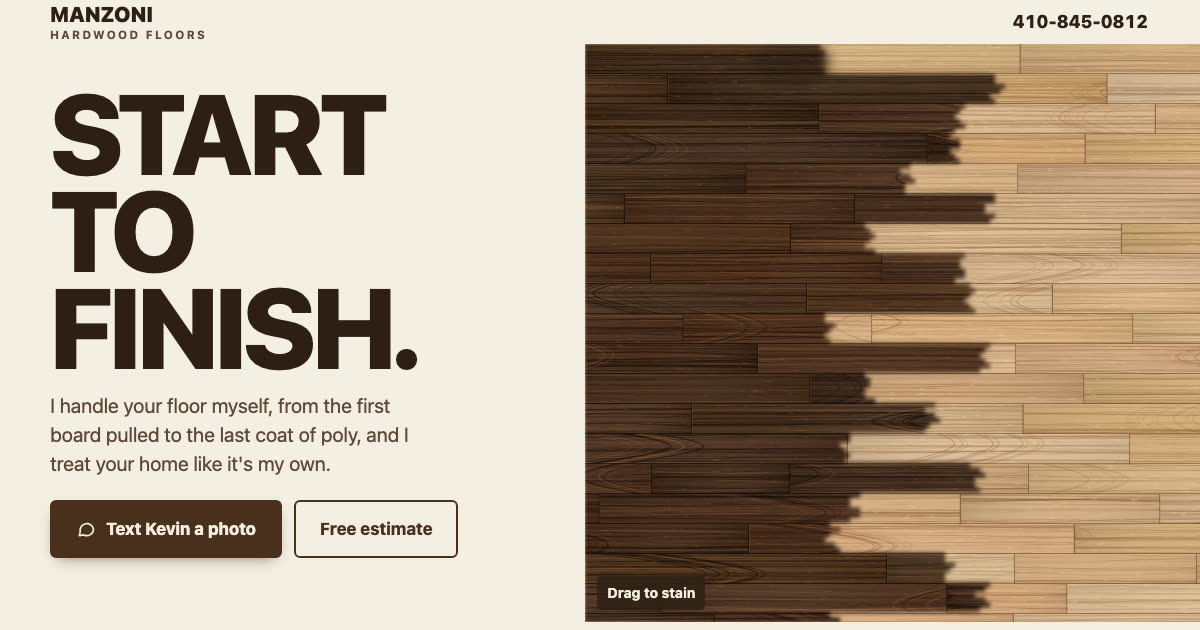
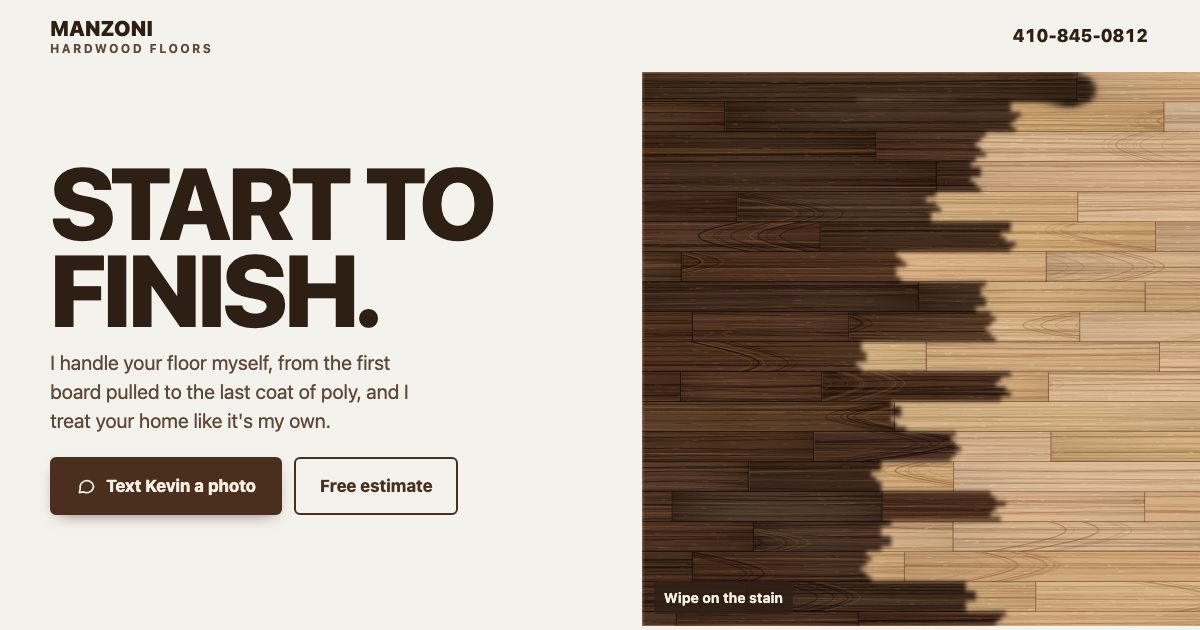
Apply Impeccable sweep and finish review: header padding, photos inset in a board field, neutral trim ground, truthful text bodies, Kevin's voice
Claude-Session: https://claude.ai/code/session_01K48ZZnDRbZzR2nYUENonyB

diff --git a/index.html b/index.html
@@ -5,7 +5,7 @@
 <meta name="viewport" content="width=device-width, initial-scale=1, viewport-fit=cover">
 <title>Manzoni Hardwood Floors · Northern NJ</title>
 <meta name="description" content="Hardwood floor installation, sand and refinish, and repairs in Northern New Jersey. Fully insured. Free estimates. Call or text Kevin at 410-845-0812.">
-<meta name="theme-color" content="#f4eee4">
+<meta name="theme-color" content="#f4f2ec">
 <meta property="og:type" content="website">
 <meta property="og:title" content="Manzoni Hardwood Floors">
 <meta property="og:description" content="Installation, sand & refinish, repairs. Northern NJ. Fully insured, free estimates. Call or text Kevin.">
@@ -18,8 +18,8 @@
 <style>
 /* ---------- Tokens ---------- */
 :root{
-  --ground:#f4eee4;      /* trim-white wall, warm */
-  --ground-2:#ebe2d4;    /* sanded oak dust */
+  --ground:#f4f2ec;      /* trim-white wall */
+  --ground-2:#e9e5dc;    /* sanded oak dust */
   --ink:#2e1f15;         /* walnut ink */
   --ink-soft:#5f4838;
   --walnut:#4a2f1e;      /* Special Walnut */
@@ -60,7 +60,7 @@ p{margin:0}
 .top{display:flex;align-items:center;justify-content:space-between;gap:12px;padding-top:max(14px,env(safe-area-inset-top));padding-bottom:14px}
 .mark{display:flex;flex-direction:column;justify-content:center;min-height:44px;text-decoration:none;line-height:1}
 .mark b{font-weight:900;font-size:21px;letter-spacing:.01em;text-transform:uppercase}
-.mark span{font-size:11.5px;font-weight:700;letter-spacing:.2em;text-transform:uppercase;color:var(--ink-soft);margin-top:4px}
+.mark span{font-size:12px;font-weight:700;letter-spacing:.2em;text-transform:uppercase;color:var(--ink-soft);margin-top:4px}
 .tel{display:flex;align-items:center;min-height:44px;padding:0 2px;font-weight:800;font-size:16px;text-decoration:none;white-space:nowrap;font-variant-numeric:tabular-nums}
 .tel:hover{color:var(--tape)}
 
@@ -90,7 +90,6 @@ section{padding:64px 0}
 /* services: rows, only the arrow reacts */
 .rows{list-style:none;margin:26px 0 0;padding:0;border-top:1px solid var(--seam)}
 .rows li{position:relative;border-bottom:1px solid var(--seam)}
-.rows li::after{content:"";position:absolute;bottom:-1px;width:1px;height:12px;background:var(--seam);left:var(--joint,40%)}
 .row{display:flex;align-items:center;justify-content:space-between;gap:16px;min-height:76px;padding:10px 0;text-decoration:none;-webkit-tap-highlight-color:transparent}
 .row strong{font-size:clamp(24px,6.6vw,34px);font-weight:820;text-transform:uppercase;letter-spacing:-.015em;line-height:1}
 .arrow{flex:none;display:grid;place-items:center;width:46px;height:46px;border-radius:50%;background:var(--ground-2);color:var(--walnut);transition:background-color .18s,color .18s}
@@ -106,9 +105,11 @@ section{padding:64px 0}
 .care p.spec{font-size:17px;font-weight:750;color:var(--oak);margin-top:26px}
 
 /* work: photos set into the floor like an inlay */
-.inlays{display:grid;gap:18px;margin-top:28px}
-.inlay{margin:0;padding:10px;border-radius:4px;background:var(--walnut) var(--strip,none) center/cover;box-shadow:0 18px 30px -18px rgba(46,31,21,.55),inset 0 0 0 1px rgba(20,10,5,.35)}
-.inlay img{width:100%;border-radius:2px;background:#5a3b27;user-select:none;-webkit-user-drag:none}
+.field-wrap{position:relative;margin:28px -20px 0;padding:22px 20px;background:#3f2819;overflow:hidden}
+.field-wrap canvas{position:absolute;inset:0;width:100%;height:100%;display:block;touch-action:pan-y}
+.inlays{position:relative;display:grid;gap:22px}
+.inlay{margin:0;padding:6px;background:#d3b081;box-shadow:inset 0 1px 3px rgba(40,22,10,.6),0 0 0 2px #24150c}
+.inlay img{width:100%;box-shadow:inset 0 0 0 1px rgba(0,0,0,.3);background:#5a3b27;user-select:none;-webkit-user-drag:none}
 .fb{display:flex;align-items:center;justify-content:space-between;gap:16px;margin-top:22px;min-height:68px;padding:12px 20px;border-radius:var(--radius);background:var(--ground-2);border:2px solid var(--walnut);text-decoration:none;font-weight:800;font-size:18px;transition:border-color .18s,color .18s}
 .fb .arrow{background:var(--walnut);color:#f7efe2}
 .fb:hover{border-color:var(--tape);color:var(--tape)}
@@ -135,33 +136,33 @@ fieldset{border:0;margin:0;padding:0;min-width:0}
 .chips{display:flex;flex-wrap:wrap;gap:10px}
 .chip{position:relative}
 .chip input{position:absolute;opacity:0;width:1px;height:1px}
-.chip span{display:flex;align-items:center;gap:8px;min-height:48px;padding:0 16px;border:2px solid rgba(74,47,30,.28);border-radius:var(--radius);background:#fffdf9;font-weight:650;cursor:pointer;transition:border-color .15s,background-color .15s,color .15s}
+.chip span{display:flex;align-items:center;gap:8px;min-height:48px;padding:0 16px;border:2px solid rgba(74,47,30,.28);border-radius:var(--radius);background:linear-gradient(var(--walnut),var(--walnut)) left/0% 100% no-repeat #fffdf9;font-weight:650;cursor:pointer;transition:border-color .15s,background-size .35s cubic-bezier(.2,.7,.2,1),color .2s}
 .chip span::before{content:"";width:16px;height:16px;border-radius:3px;border:2px solid var(--ink-soft);flex:none;transition:background-color .15s,border-color .15s}
 .chip:hover span{border-color:var(--tape)}
 .chip input:focus-visible+span{border-color:var(--tape);box-shadow:0 0 0 3px rgba(42,103,168,.22)}
-.chip input:checked+span{background:var(--walnut);border-color:var(--walnut);color:#f7efe2}
+.chip input:checked+span{background-size:100% 100%;border-color:var(--walnut);color:#f7efe2}
 .chip input:checked+span::before{background:var(--oak);border-color:var(--oak)}
 .chip input:checked:hover+span{border-color:var(--tape)}
-.err{display:none;margin-top:6px;color:#a3321c;font-weight:650;font-size:15px}
+.err{display:none;margin-top:6px;color:#a3321c;font-weight:650;font-size:14px}
 .bad .err{display:block}
 .bad input{border-color:#a3321c}
 form .btn{width:100%}
 form .btn:hover,form .btn:focus-visible{border-color:var(--tape);box-shadow:0 0 0 3px rgba(42,103,168,.22)}
-.sub{font-size:15px;color:var(--ink-soft);margin-top:10px}
+.sub{font-size:16px;color:var(--ink-soft);margin-top:10px}
 .sent{display:none;margin-top:4px;padding:16px;border-radius:var(--radius);background:#fffdf9;border:1px solid var(--seam)}
 .sent.on{display:block}
-.sent pre{white-space:pre-wrap;font:400 15px/1.45 var(--font);margin:10px 0 12px;color:var(--ink-soft)}
+.sent pre{white-space:pre-wrap;font:400 16px/1.45 var(--font);margin:10px 0 12px;color:var(--ink-soft)}
 .sent .row2{display:flex;flex-wrap:wrap;gap:10px 18px;align-items:center}
-.linkbtn{min-height:44px;padding:0 14px;border-radius:var(--radius);border:2px solid rgba(74,47,30,.28);background:transparent;font:700 15px var(--font);color:var(--ink);cursor:pointer}
+.linkbtn{min-height:44px;padding:0 14px;border-radius:var(--radius);border:2px solid rgba(74,47,30,.28);background:transparent;font:700 16px var(--font);color:var(--ink);cursor:pointer}
 .linkbtn:hover,.linkbtn:focus-visible{border-color:var(--tape)}
+.linkbtn-a{display:inline-flex;align-items:center;text-decoration:none}
+.lede{font-size:17px;margin-top:16px;max-width:30ch;color:var(--ink-soft)}
 
 /* close */
 .close{padding-bottom:40px}
 .close h2{font-size:clamp(40px,12vw,104px);line-height:.88}
 .close .where{margin-top:18px;font-size:20px;font-weight:650;color:var(--ink-soft)}
 .close .cta{max-width:420px}
-.close .bigtel{display:inline-block;margin-top:22px;font-size:clamp(28px,8vw,44px);font-weight:850;text-decoration:none;font-variant-numeric:tabular-nums;letter-spacing:-.01em}
-.close .bigtel:hover{color:var(--tape)}
 
 /* footer */
 footer{background:var(--walnut-deep);color:#e6d4bd;padding:34px 0 calc(34px + env(safe-area-inset-bottom));font-size:16px}
@@ -173,27 +174,27 @@ footer small{color:#bfa78d;font-size:14px}
 
 /* ---------- Desktop ---------- */
 @media (min-width:720px){
-  .wrap{padding:0 40px}
+  .wrap{padding-left:40px;padding-right:40px}
   .cta{grid-template-columns:auto auto;justify-content:start}
-  .inlays{grid-template-columns:1.38fr 1fr;align-items:start}
+  .inlays{grid-template-columns:1.337fr 1.065fr;align-items:start}
+  .field-wrap{margin-left:0;margin-right:0;padding:36px}
   .course{height:64px}
   .tel{font-size:18px}
 }
 @media (min-width:1024px){
-  .hero{display:grid;grid-template-columns:minmax(0,1fr) minmax(0,1.05fr);min-height:min(88svh,780px)}
+  .hero{display:grid;grid-template-columns:minmax(0,1.15fr) minmax(0,1fr);min-height:min(88svh,780px)}
   .hero-copy{display:flex;flex-direction:column;justify-content:center;padding:40px 48px 64px max(40px,calc((100vw - 1180px)/2 + 40px))}
   .floor-wrap{height:auto;min-height:520px}
-  .hero h1{font-size:clamp(84px,9.4vw,136px)}
+  .hero h1{font-size:clamp(84px,8.4vw,120px)}
   section{padding:104px 0}
   .split{display:grid;grid-template-columns:1fr 1.2fr;gap:64px;align-items:start}
   .split .rows,.split .steps{margin-top:0}
+  .care .split p:first-child{margin-top:0}
   .estimate .split form{margin-top:0}
   .close .inner{display:grid;grid-template-columns:1.3fr 1fr;gap:56px;align-items:end}
-  .rows li:nth-child(1){--joint:62%}.rows li:nth-child(2){--joint:28%}.rows li:nth-child(3){--joint:79%}
 }
-.rows li:nth-child(1){--joint:66%}.rows li:nth-child(2){--joint:24%}.rows li:nth-child(3){--joint:81%}
 
-@media (prefers-reduced-motion:reduce){html{scroll-behavior:auto}*{transition:none!important}}
+@media (prefers-reduced-motion:reduce){html{scroll-behavior:auto}}
 </style>
 </head>
 <body>
@@ -202,7 +203,7 @@ THESIS: Kevin takes a floor from torn-up to Special Walnut and three coats of po
 OWN-WORLD: A racked-out hardwood floor seen from above: random-length oak strips, staggered joints, Special Walnut wiped into raw sanded oak. Trim-white walls (the cream ground), walnut ink, painter's-tape blue only where the visitor touches a control.
 STORY: The visitor stains the floor with a finger, sees two of Kevin's real jobs set into the floor like inlays, learns it's three steps and free to ask, and texts him a photo.
 FIRST VIEWPORT: Name + tap-to-call number up top; "Start to finish." as the one focal point; one line of promise; "Text Kevin a photo" (solid) and "Free estimate" (outline); a strip of floor along the bottom that is being stained right now and stains wherever you drag.
-FORM: Static single file. One shared animation loop drives the hero floor and the course dividers (the same engine). Wet stain spreads fast along the grain, slowly across, barely over seams; a sanding pass lifts it back to raw so there's always floor to stain.
+FORM: Concept roll fd77705c (persuade) assigned candidate 3, racked boards; fused with the stain-wipe act. Static single file. One shared animation loop drives the hero floor and the course dividers (the same engine). Wet stain spreads fast along the grain, slowly across, barely over seams; a sanding pass lifts it back to raw so there's always floor to stain.
 -->
 <header class="wrap top">
   <a class="mark" href="#top" aria-label="Manzoni Hardwood Floors, back to top"><b>Manzoni</b><span>Hardwood Floors</span></a>
@@ -215,7 +216,7 @@ FORM: Static single file. One shared animation loop drives the hero floor and th
     <h1>Start to finish.</h1>
     <p class="promise">I handle your floor myself, from the first board pulled to the last coat of poly, and I treat your home like it's my own.</p>
     <div class="cta">
-      <a class="btn btn-solid" data-sms="Hi Kevin, I found your website. Here's a photo of my floor. I'm looking for:" href="sms:+14108450812">
+      <a class="btn btn-solid" data-sms="Hi Kevin, I found your website. I'll send a photo of my floor. I'm looking for:" href="sms:+14108450812">
         <svg viewBox="0 0 24 24" fill="none" stroke="currentColor" stroke-width="2" stroke-linecap="round" stroke-linejoin="round" aria-hidden="true"><path d="M21 12a8 8 0 0 1-11.6 7.1L4 20l1-4.6A8 8 0 1 1 21 12z"/></svg>
         Text Kevin a photo
       </a>
@@ -225,7 +226,7 @@ FORM: Static single file. One shared animation loop drives the hero floor and th
   <div class="floor-wrap" id="hero-floor">
     <div class="floor-fallback" aria-hidden="true"></div>
     <canvas aria-label="A hardwood floor. Drag across it to wipe on Special Walnut stain." role="img"></canvas>
-    <p class="hint" aria-hidden="true">Drag to stain</p>
+    <p class="hint" aria-hidden="true">Wipe on the stain</p>
   </div>
 </div>
 
@@ -246,21 +247,23 @@ FORM: Static single file. One shared animation loop drives the hero floor and th
 <div class="course" aria-hidden="true"><canvas></canvas></div>
 
 <section class="care">
-  <div class="wrap">
+  <div class="wrap split">
     <h2>Big repairs are part of the job</h2>
-    <p>When boards are damaged, I don't sand around them. I pull them, weave in new ones, and sand the whole floor together so you can't tell where the old floor ends and the new one starts.</p>
+    <div>
+    <p>I'd rather fix a bad spot right than sand around it. I treat your floor like the one I walk on every day, and your home like I'm a guest in it.</p>
     <p class="spec">Last job: Special Walnut stain, 3 coats of polyurethane</p>
+    </div>
   </div>
 </section>
 
 <section id="work">
   <div class="wrap">
     <h2>My work</h2>
-    <div class="inlays">
+    <div class="field-wrap"><canvas class="field" aria-hidden="true"></canvas><div class="inlays">
       <figure class="inlay"><img src="img/repair.webp" width="936" height="700" alt="A living room floor torn up in front of an arched wooden door, with new oak boards stacked and ready to weave in" loading="lazy" decoding="async" draggable="false"></figure>
       <figure class="inlay"><img src="img/finished.webp" width="720" height="676" alt="A finished floor in a dark walnut stain, seen from the top of a curved white staircase" loading="lazy" decoding="async" draggable="false"></figure>
-    </div>
-    <a class="fb" href="https://facebook.com/profile.php?id=100057250275824" rel="noopener">Click to see more of my work.<span class="arrow" aria-hidden="true"><svg viewBox="0 0 24 24" fill="none" stroke="currentColor" stroke-width="2.4" stroke-linecap="round" stroke-linejoin="round"><path d="M5 12h14M13 6l6 6-6 6"/></svg></span></a>
+    </div></div>
+    <a class="fb" href="https://facebook.com/profile.php?id=100057250275824" rel="noopener">See more of my work on Facebook<span class="arrow" aria-hidden="true"><svg viewBox="0 0 24 24" fill="none" stroke="currentColor" stroke-width="2.4" stroke-linecap="round" stroke-linejoin="round"><path d="M5 12h14M13 6l6 6-6 6"/></svg></span></a>
   </div>
 </section>
 
@@ -271,8 +274,8 @@ FORM: Static single file. One shared animation loop drives the hero floor and th
     <h2>How it works</h2>
     <ol class="steps">
       <li><b>Text me a photo of your floor.</b><span>Tell me what you're hoping for.</span></li>
-      <li><b>I come look, and the estimate is free.</b><span>You'll know what the job needs before anything starts.</span></li>
-      <li><b>I do it start to finish.</b><span>Sanding, repairs, stain and finish, all by me.</span></li>
+      <li><b>The estimate is free.</b><span>You'll know what the job needs before anything starts.</span></li>
+      <li><b>I do the work.</b><span>Sanding, repairs, stain and finish, all by me.</span></li>
     </ol>
   </div>
 </section>
@@ -281,17 +284,17 @@ FORM: Static single file. One shared animation loop drives the hero floor and th
   <div class="wrap split">
     <div>
       <h2>Free estimate</h2>
-      <p class="sub" style="font-size:17px;margin-top:16px;max-width:30ch">Fill this in and it becomes a text to me. Add a photo of the floor before you send it.</p>
+      <p class="lede">Add a photo of the floor before you send it.</p>
     </div>
     <form id="est" novalidate>
       <div class="field" id="f-name">
         <label for="name">Your name</label>
-        <input type="text" id="name" name="name" autocomplete="name" placeholder="First and last">
+        <input type="text" id="name" name="name" maxlength="80" autocomplete="name" placeholder="First and last">
         <p class="err" id="e-name">Please add your name so I know who's texting.</p>
       </div>
       <div class="field" id="f-town">
         <label for="town">Town</label>
-        <input type="text" id="town" name="town" autocomplete="address-level2" placeholder="Where's the floor?">
+        <input type="text" id="town" name="town" maxlength="80" autocomplete="address-level2" placeholder="Where's the floor?">
         <p class="err" id="e-town">Please add your town so I know where the job is.</p>
       </div>
       <fieldset>
@@ -314,7 +317,7 @@ FORM: Static single file. One shared animation loop drives the hero floor and th
       <div class="sent" id="sent" role="status" aria-live="polite">
         <b>Your text is ready.</b> If your messages app didn't open, send this to 410-845-0812:
         <pre id="msg"></pre>
-        <div class="row2"><button class="linkbtn" type="button" id="copy">Copy message</button><a class="linkbtn" style="display:inline-flex;align-items:center;text-decoration:none" href="tel:+14108450812">Call instead</a></div>
+        <div class="row2"><button class="linkbtn" type="button" id="copy">Copy message</button><a class="linkbtn linkbtn-a" href="tel:+14108450812">Call instead</a></div>
       </div>
     </form>
   </div>
@@ -329,8 +332,8 @@ FORM: Static single file. One shared animation loop drives the hero floor and th
       <p class="where">Northern New Jersey. Call or text Kevin.</p>
     </div>
     <div>
-      <a class="bigtel" href="tel:+14108450812">410-845-0812</a>
-      <div class="cta"><a class="btn btn-solid" data-sms="Hi Kevin, I found your website and I'd like a free estimate." href="sms:+14108450812">Text Kevin</a></div>
+      <div class="cta"><a class="btn btn-solid" data-sms="Hi Kevin, I found your website and I'd like a free estimate." href="sms:+14108450812"><svg viewBox="0 0 24 24" fill="none" stroke="currentColor" stroke-width="2" stroke-linecap="round" stroke-linejoin="round" aria-hidden="true"><path d="M21 12a8 8 0 0 1-11.6 7.1L4 20l1-4.6A8 8 0 1 1 21 12z"/></svg>
+        Text Kevin</a></div>
     </div>
   </div>
 </section>
@@ -359,14 +362,16 @@ FORM: Static single file. One shared animation loop drives the hero floor and th
 (function(){
   /* tunables */
   var CELL = 5;            // stain grid cell, css px
-  var ALONG = 0.22;        // wet flow along the grain (same board)
+  var ALONG = 0.12;        // wet flow along the grain (same board)
   var ACROSS = 0.05;       // wet flow across the board width
   var SEAM = 0.004;        // wet flow over a seam (next row or butt joint)
   var SOAK = 0.07;         // share of wet stain absorbed per tick
   var DRY = 0.992;         // wet evaporation per tick
   var BRUSH = 1.25;        // rag radius, in rows
-  var AUTO_SPEED = 560;    // rag speed, css px/s
-  var SAND_SPEED = 340;    // sander speed, css px/s
+  var AUTO_SPEED = 240;    // rag speed, css px/s
+  var SAND_SPEED = 260;    // sander speed, css px/s
+  var HOLD = 3200;         // ms the finished floor is left alone before sanding
+  var RAG = 0.7;           // auto rag radius, in rows (one course at a time)
   var SAND_AT = 0.9;       // coverage that starts a sanding pass
   var IDLE = 2600;         // ms after a touch before the floor works by itself
 
@@ -514,8 +519,8 @@ FORM: Static single file. One shared animation loop drives the hero floor and th
 
   Floor.prototype.toLocal = function(cx, cy){ var r = this.c.getBoundingClientRect(); return {x:cx - r.left, y:cy - r.top}; };
 
-  Floor.prototype.wipe = function(x0, y0, x1, y1, amt){
-    var rad = this.rowH * BRUSH, dist = Math.hypot(x1 - x0, y1 - y0), steps = Math.max(1, Math.ceil(dist / (CELL * 1.5)));
+  Floor.prototype.wipe = function(x0, y0, x1, y1, amt, size){
+    var rad = this.rowH * (size || BRUSH), dist = Math.hypot(x1 - x0, y1 - y0), steps = Math.max(1, Math.ceil(dist / (CELL * 1.5)));
     var gw = this.gw, gh = this.gh, wet = this.wet, cr = Math.ceil(rad / CELL);
     for (var s = 0; s <= steps; s++){
       var px = x0 + (x1 - x0) * s / steps, py = y0 + (y1 - y0) * s / steps, gx = Math.floor(px / CELL), gy = Math.floor(py / CELL);
@@ -558,6 +563,7 @@ FORM: Static single file. One shared animation loop drives the hero floor and th
   Floor.prototype.tick = function(now, dt){
     if (!this.w) return;
     var p = this.ptr;
+    if (this.o.still && !(p && p.live) && !this.wetLeft) return;
     if (p && p.live){
       var L = this.toLocal(p.cx, p.cy);
       if (p.prev) this.wipe(p.prev.x, p.prev.y, L.x, L.y, .9); else this.wipe(L.x, L.y, L.x, L.y, .6);
@@ -568,7 +574,10 @@ FORM: Static single file. One shared animation loop drives the hero floor and th
       if (this.mode === 'stain'){
         var a = this.auto;
         if (!a || a.done){
-          if (this.coverage() > SAND_AT){ this.mode = 'sand'; this.sand = {lane:0, x:-20}; }
+          if (this.coverage() > SAND_AT){
+            if (!this.heldAt) this.heldAt = now;
+            if (now - this.heldAt > HOLD){ this.heldAt = 0; this.mode = 'sand'; this.sand = {lane:0, x:-20}; }
+          }
           else {
             // rag works with the grain along the least-stained course
             var best = 0, bestV = 2, rows = Math.ceil(this.h / this.rowH);
@@ -579,10 +588,10 @@ FORM: Static single file. One shared animation loop drives the hero floor and th
             this.auto = a = {y:(best + .5) * this.rowH, x:Math.max(-30, sx * CELL - 60), dir:1, ph:Math.random() * 6, done:false, prev:null};
           }
         }
-        if (this.mode === 'stain'){
+        if (this.mode === 'stain' && a && !a.done){
           a.x += a.dir * AUTO_SPEED * dt;
-          var yy = a.y + Math.sin(a.x * .012 + a.ph) * this.rowH * .45;
-          if (a.prev) this.wipe(a.prev.x, a.prev.y, a.x, yy, .8);
+          var yy = a.y + Math.sin(a.x * .012 + a.ph) * this.rowH * .18;
+          if (a.prev) this.wipe(a.prev.x, a.prev.y, a.x, yy, .7, RAG);
           a.prev = {x:a.x, y:yy};
           if (a.x < -40 || a.x > this.w + 40) a.done = true;
         }
@@ -593,6 +602,7 @@ FORM: Static single file. One shared animation loop drives the hero floor and th
       }
     }
     this.flow();
+    if (this.o.still){ var wl = 0; for (var q = 0; q < this.wet.length; q += 7) wl += this.wet[q]; this.wetLeft = wl > .01; }
     this.draw(dt);
   };
 
@@ -650,9 +660,13 @@ FORM: Static single file. One shared animation loop drives the hero floor and th
     floors.push(new Floor(cv, {seed:900 + i * 31, auto:true, rowH:function(){ return cv.getBoundingClientRect().height / 2; }, start:function(f){ if (i % 2) halfDone(f); }}));
   });
 
+  var field = document.querySelector('canvas.field');
+  if (field) floors.push(new Floor(field, {seed:5150, auto:false, still:true, rowH:function(w){ return w < 720 ? 30 : 36; }, start:function(f){ f.stain.fill(1); }}));
+
   function sizeAll(){ floors.forEach(function(f){ f.build(); }); }
   sizeAll();
   addEventListener('resize', sizeAll);
+  if ('ResizeObserver' in window){ var ro = new ResizeObserver(sizeAll); floors.forEach(function(f){ ro.observe(f.c); }); }
   document.querySelectorAll('.floor-fallback').forEach(function(el){ el.style.display = 'none'; });
 
   if (reduce){
@@ -696,14 +710,15 @@ FORM: Static single file. One shared animation loop drives the hero floor and th
     var msg = 'Hi Kevin, I\'d like a free estimate.\nName: ' + document.getElementById('name').value.trim() +
       '\nTown: ' + document.getElementById('town').value.trim() +
       '\nJob: ' + (jobs.length ? jobs.join(', ') : 'Not sure yet') +
-      (notes ? '\nAbout the floor: ' + notes : '') + '\n(Photo of the floor attached)';
+      (notes ? '\nAbout the floor: ' + notes : '') + '\nI\'ll send a photo of the floor.';
     out.textContent = msg; sent.classList.add('on');
     location.href = 'sms:' + NUM + '?&body=' + encodeURIComponent(msg);
   });
   document.getElementById('copy').addEventListener('click', function(){
     var b = this, t = out.textContent;
-    try { navigator.clipboard.writeText(t).then(function(){ b.textContent = 'Copied'; }, function(){ b.textContent = 'Press and hold the message to copy'; }); }
-    catch (err){ b.textContent = 'Press and hold the message to copy'; }
+    function reset(){ setTimeout(function(){ b.textContent = 'Copy message'; }, 2500); }
+    try { navigator.clipboard.writeText(t).then(function(){ b.textContent = 'Copied'; reset(); }, function(){ b.textContent = 'Press and hold the message to copy'; reset(); }); }
+    catch (err){ b.textContent = 'Press and hold the message to copy'; reset(); }
   });
 })();
 </script>
